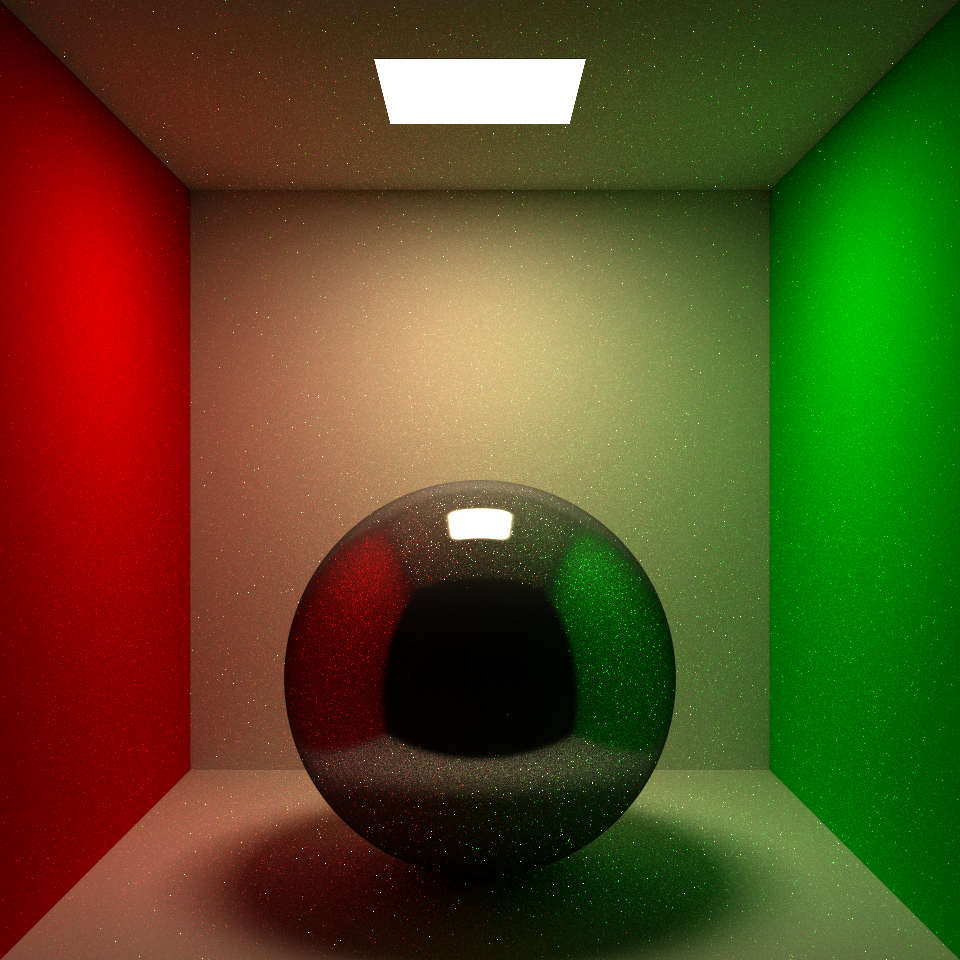
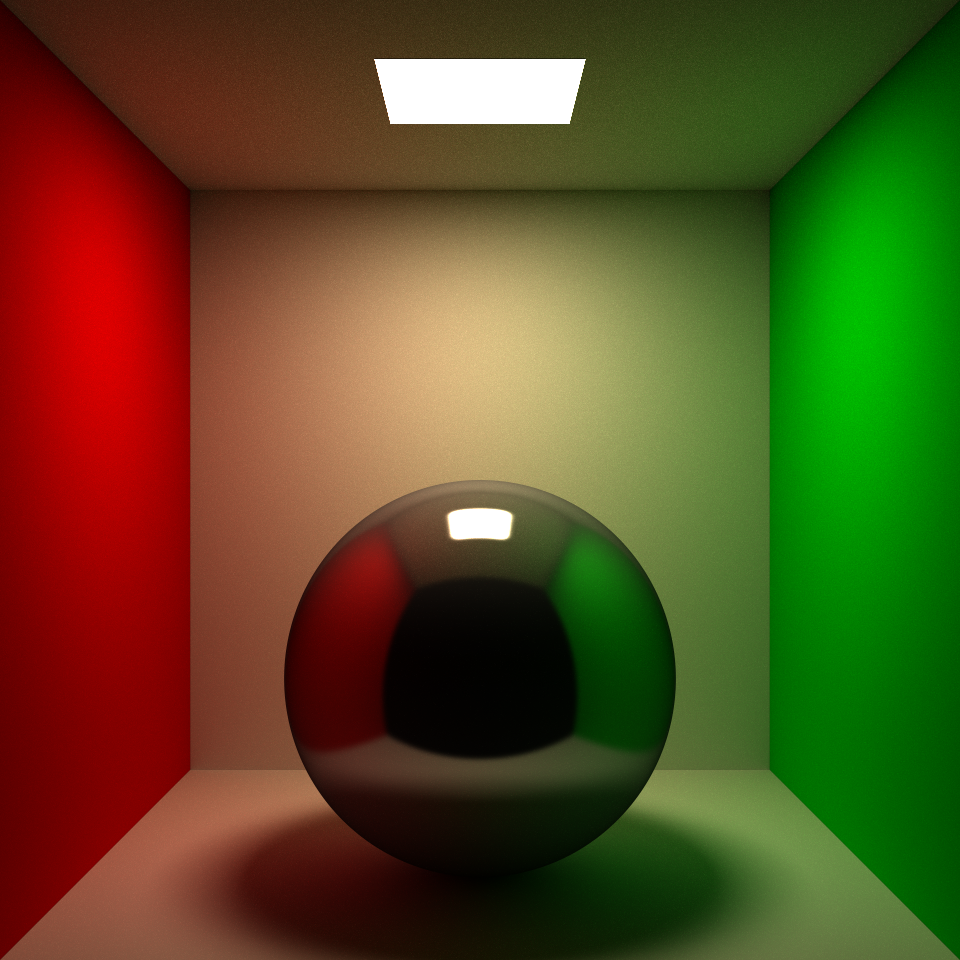
importance sampling BRDF

Changed region(s): [[0.3125, 0.5312, 0.6562, 0.8125], [0.5625, 0.5625, 0.6875, 0.7188], [0.5312, 0.5312, 0.5625, 0.5625]]

diff --git a/OptiXRenderer/SceneLoader.cpp b/OptiXRenderer/SceneLoader.cpp
@@ -143,7 +143,10 @@ std::shared_ptr<Scene> SceneLoader::load(std::string sceneFilename)
             transformPoint(scene->vertices[ivalues[0]]) - transformPoint(scene->vertices[ivalues[2]]);            
             optix::float3 surfNormal = optix::normalize(optix::cross(diffVec1, diffVec2));
 
-            struct Triangle newTriangle = {surfNormal, ambient, diffuse, specular, emission, shininess, false};
+            float brdf_t = (specular.x + specular.y + specular.z) / 
+                (specular.x + specular.y + specular.z + diffuse.x + diffuse.y + diffuse.z);
+
+            struct Triangle newTriangle = {surfNormal, ambient, diffuse, specular, emission, shininess, brdf_t, false};
             scene->triangles.push_back(newTriangle);
         }
         else if (cmd == "sphere" && readValues(s, 4, fvalues))
@@ -152,9 +155,12 @@ std::shared_ptr<Scene> SceneLoader::load(std::string sceneFilename)
             optix::make_float3(fvalues[0], fvalues[1], fvalues[2]);
             float radius = fvalues[3];
 
+            float brdf_t = (specular.x + specular.y + specular.z) / 
+                (specular.x + specular.y + specular.z + diffuse.x + diffuse.y + diffuse.z);
+            
             // save the inverse transformation for intersection test
             struct Sphere newSphere = {center, radius, transStack.top().inverse(),
-                                    ambient, diffuse, specular, emission, shininess, false};
+                                    ambient, diffuse, specular, emission, shininess, brdf_t, false};
             scene->spheres.push_back(newSphere);
         }
         else if (cmd == "ambient" && readValues(s, 3, fvalues))
@@ -244,7 +250,7 @@ std::shared_ptr<Scene> SceneLoader::load(std::string sceneFilename)
 
         optix::float3 placeHolder = optix::make_float3(0.f, 0.f, 0.f);
         struct Triangle triangle_1 = 
-            {placeHolder, placeHolder, placeHolder, placeHolder, light.col, 0.0f, true};        
+            {placeHolder, placeHolder, placeHolder, placeHolder, light.col, 0.0f, 0.0f, true};        
         scene->triangles.push_back(triangle_1);
 
         // add triangle 2
@@ -253,7 +259,7 @@ std::shared_ptr<Scene> SceneLoader::load(std::string sceneFilename)
         scene->triangleSoup.push_back(D);
 
         struct Triangle triangle_2 = 
-            {placeHolder, placeHolder, placeHolder, placeHolder, light.col, 0.0f, true};
+            {placeHolder, placeHolder, placeHolder, placeHolder, light.col, 0.0f, 0.0f, true};
         scene->triangles.push_back(triangle_1);        
     }
 

diff --git a/OptiXRenderer/Geometries.h b/OptiXRenderer/Geometries.h
@@ -20,6 +20,7 @@ struct Triangle
     optix::float3 specular;
     optix::float3 emission;
     float shininess;
+    float brdf_t;
 
     unsigned int lightSource;    
 };
@@ -37,6 +38,7 @@ struct Sphere
     optix::float3 specular;
     optix::float3 emission;
     float shininess;
+    float brdf_t;
 
     unsigned int lightSource;
 };
@@ -52,6 +54,7 @@ struct Attributes
     optix::float3 specular;
     optix::float3 emission;
     float shininess;
+    float brdf_t;
 
     unsigned int lightSource;
 };

diff --git a/OptiXRenderer/Renderer.cpp b/OptiXRenderer/Renderer.cpp
@@ -254,7 +254,7 @@ std::vector<unsigned char> Renderer::getResult()
             imageData[index + 0] = cast(pixel.x);
             imageData[index + 1] = cast(pixel.y);
             imageData[index + 2] = cast(pixel.z);
-            imageData[index + 3] = 255; // alpha channel      
+            imageData[index + 3] = 255; // alpha channel
         }        
     }
 
